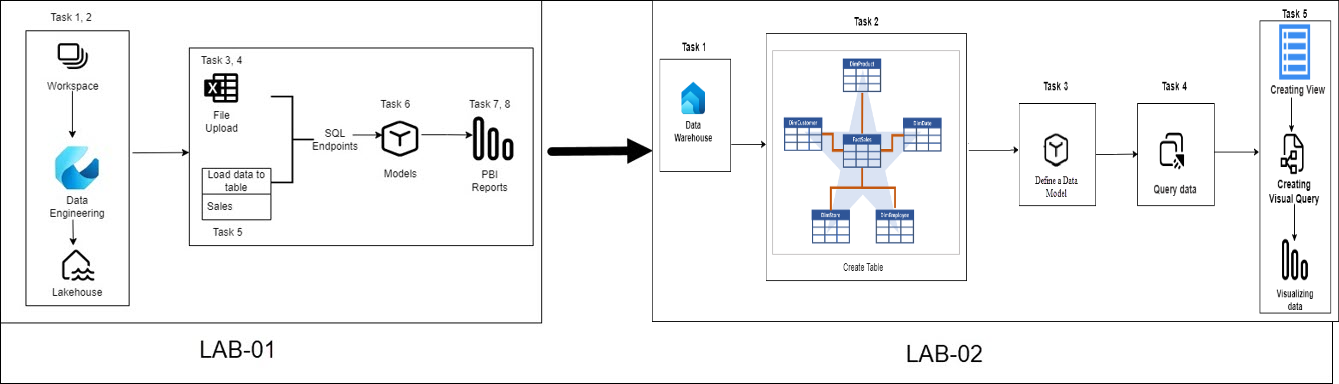
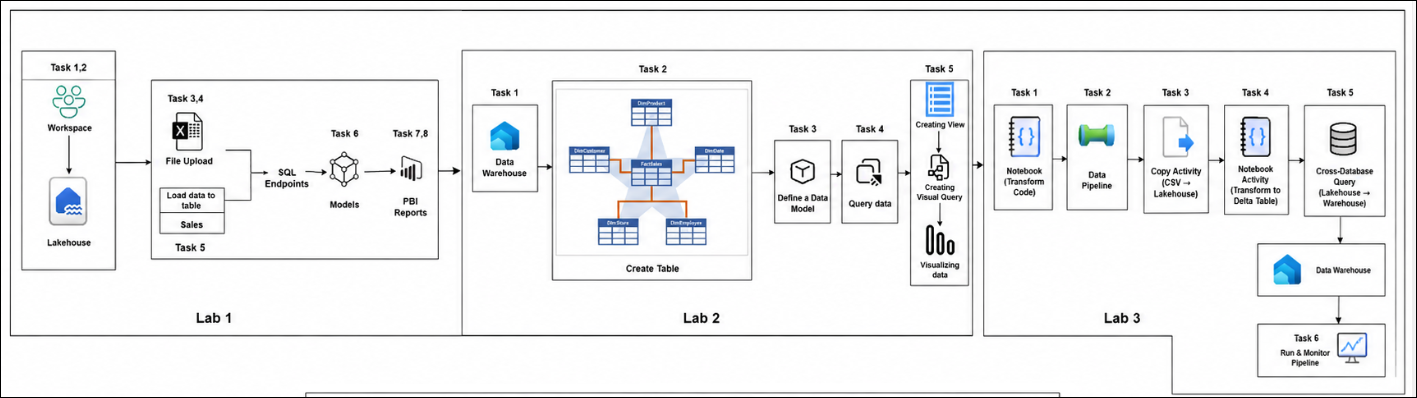
Updated the files

diff --git a/Instructions/Labs/Lab_03-Data-Engineering–Pipelines-and-Cross-Database-Queries.md b/Instructions/Labs/Lab_03-Data-Engineering–Pipelines-and-Cross-Database-Queries.md
@@ -10,14 +10,11 @@ As a Data Engineer, you will build a production-style data pipeline that mirrors
 
 ## 📋 Overview
 
-Microsoft Fabric Data Pipelines provide a visual orchestration engine to move and transform data across Fabric items. Combined with cross-database (cross-object) queries, you can read Lakehouse Delta tables directly from the Warehouse SQL endpoint — eliminating the need for redundant data copies.
+Microsoft Fabric Data Pipelines provide a visual orchestration engine that enables organizations to move, transform, and manage data efficiently across various Fabric items. When combined with cross-database (cross-object) queries, data can be accessed directly from Lakehouse Delta tables through the Warehouse SQL endpoint, eliminating the need for redundant data copies and simplifying data integration. In this lab, you will learn how to create a Data Pipeline to ingest external data into a Lakehouse, use a Notebook activity to transform raw data into a curated Delta table, leverage cross-database queries to load data from the Lakehouse into a Data Warehouse, and orchestrate the entire workflow within a single pipeline using proper activity sequencing and dependencies.
 
-In this lab, you will:
+## 🏗️ Architecture Diagram
 
-- Create a Data Pipeline to copy external data into the Lakehouse
-- Use a Notebook activity to transform raw data into a curated Delta table
-- Use cross-database queries to load data from the Lakehouse into the Data Warehouse
-- Orchestrate all steps in a single pipeline with proper sequencing
+   ![](<./Images/archlab03.png>)
 
 ## 🎯 Lab objectives
 
@@ -34,11 +31,11 @@ In this lab, you will complete the following tasks:
 
 In this task, you will create a Spark notebook that transforms the raw CSV data (ingested into the Lakehouse Files area) into a cleansed Delta table. This notebook will later be called from the pipeline.
 
-1. In the Power BI portal, make sure you are in workspace **Workspace-<inject key="DeploymentID" enableCopy="false"/>**, then click **Power BI** **(1)** on the left navigation bar, and click **+ New item** **(2)**.
+1. In the Microsoft Fabric portal, make sure you are in workspace **Workspace-<inject key="DeploymentID" enableCopy="false"/>**, then click **Power BI** **(1)** on the left navigation bar, and click **+ New item** **(2)**.
 
    ![](<./Images/L2T1S1.png>)
 
-1. On the **New item** page, search for **Notebook** **(1)** in the search bar and select **Notebook** **(2)**.
+1. On the **New item** page, search for **notebook** **(1)** in the search bar and select **Notebook** **(2)**.
 
    ![](<./Images/Img1.png>)
 
@@ -48,11 +45,11 @@ In this task, you will create a Spark notebook that transforms the raw CSV data 
 
     ![](<./Images/img2.png>)
 
-1. If the notebook does not have a default Lakehouse attached, click **Add data items (1)** in the **Data Items** section of the left **Explorer** pane, and click on **From OneLake catalog**
+1. If the notebook does not have a default Lakehouse attached, click **Add data items (1)** in the **Data Items** section of the left **Explorer** pane, and click on **From OneLake catalog (2)**
     
     ![](<./Images/img3.png>)
 
-1. On the other window choose **Lakehouse_<inject key="DeploymentID" enableCopy="false"/>** **(1)**, and click **Add**.
+1. On the other window choose **Lakehouse_<inject key="DeploymentID" enableCopy="false"/>** **(1)**, and click **Add(2)**.
     
     ![](<./Images/img4.png>)
 
@@ -60,19 +57,30 @@ In this task, you will create a Spark notebook that transforms the raw CSV data 
    
     ![](<./Images/img5.png>)
 
-    ![](<./Images/img6.png>)
+    ![](<./Images/img111.png>)
 
-1. Click the ellipses **(...) (1)** next to the **raw** folder, hover over **Upload (2)**, then select **Upload files (3)**. Download the file from [this link](https://raw.githubusercontent.com/MicrosoftLearning/dp-data/main/products.csv), then upload the downloaded **products.csv** file and click **Upload**. Once the status shows **Completed**, close the upload dialog.
+1. Click the ellipses **(...) (1)** next to the **raw** folder, hover over **Upload (2)**, then select **Upload files (3)**. Download the file from [this link](https://raw.githubusercontent.com/MicrosoftLearning/dp-data/main/products.csv).
 
     ![](<./Images/img7.png>)
 
-    ![](<./Images/img111.png>)
-
-
    >**Note:** To download the file, open a new tab in the browser and paste it into the URL.
 
-   >Right-click anywhere on the page containing the data and select Save as to save the page as a CSV file.
-   - Or if you are using the lab virtual machine (lab VM) provided to you, you can get the file from the C:\LabFiles\dp-data-main directory.
+   > Right-click anywhere on the page containing the data and select Save as to save the page as a CSV file.
+
+1. On the Upload files dialog, click the folder icon on the right to browse, go to path **C:\LabFiles\dp-data-main** and select the **prodcuts.csv (1)** file from your local or lab machine and click on **Open (2)**
+
+      ![](<./Images/img999.png>)
+
+1. On the Upload files dialog, after selecting the **prodcuts.csv** file, click **Upload (1)** to upload the file into the raw folder.
+
+    ![](<./Images/images11.png>)
+
+1. Once the upload is complete and the status shows **Completed**, click the **Close** icon at the top right to exit the **Upload files** dialog.
+
+      ![](<./Images/img1111.png>)
+
+   - if you are using the lab virtual machine (lab VM) provided to you, you can get the file from the **C:\LabFiles\dp-data-main**  directory.
+
 1. In the first cell, paste the following PySpark code and click the **&#9655; Run (1)** button to execute it:
 
    ```python
@@ -88,7 +96,7 @@ In this task, you will create a Spark notebook that transforms the raw CSV data 
    ```
     ![](<./Images/img8.png>)
 
-   > **Note**: You should see **295 rows and 4 columns: `ProductID`, `ProductName`, `Category`, `ListPrice` (2)**.
+   > **Note**: The code loads the products.csv file into a Spark DataFrame, displays the total number of rows in the dataset, and shows the first 5 records for validation. You should see **295 rows** and the columns **ProductID, ProductName, Category, and ListPrice.(2)**.
 
 1. Click **+ Code** below the first cell to add a new code cell. Paste the following transformation code and **&#9655; Run** button:
 
@@ -118,6 +126,8 @@ In this task, you will create a Spark notebook that transforms the raw CSV data 
    df_clean.show(5)
    ```
 
+   >**Note:** This code cleans the raw dataset by removing null values, standardizing column formats, adding a load timestamp, and saving the transformed data as a **Delta table** named **stg_products** in the Lakehouse.
+
 1. In the **Explorer** pane, Click it on the **(...) (1)** of the onelake and click on  the **Refresh all sources (2)**. Expand **Tables** under the **dbo** verify that the **stg_products** table now appears.
 
     ![](<./Images/img12.png>)
@@ -133,7 +143,7 @@ In this task, you will create a Spark notebook that transforms the raw CSV data 
 
 ## Task 2: Create a Data Pipeline
 
-In this task, you will create a new Data Pipeline that will orchestrate the entire data flow — from ingestion to transformation to loading.
+In this task, you will create a new Data Pipeline that will orchestrate the entire data flow - from ingestion to transformation to loading.
 
 1. In the hub menu bar on the left, click on your workspace **Workspace-<inject key="DeploymentID" enableCopy="false"/> (1)**.
 
@@ -161,17 +171,17 @@ In this task, you will add a **Copy Data** activity to the pipeline. This activi
 
    ![](<./Images/img16.png>)
 
-1. Select the **Copy data (1)** activity on the canvas and click the **General** tab at the bottom. Set the **Name** to **Copy Products CSV** **(2)**.
+1. Select the **Copy data (1)** activity on the canvas and click the **General** tab at the bottom. Set the **Name** to **Products CSV** **(2)**.
 
    ![](<./Images/img17.png>)
 
-1. Click the **Source** **(1)** tab. Under **Connection**, click **Browse all** **(2)** to create a new connection.
+1. Click the **Source** **(1)** tab. Under **Fabric item connections**, click **Browse all** **(2)** to create a new connection.
 
    ![](<./Images/img18.png>)
 
 1. In the **Choose a data source to get started** dialog:
 
-   - Search **HTTP** **(1)** as the data source type and select **HTTP (2)**
+   - Search **http** **(1)** as the data source type and select **HTTP (2)**
     
         ![](<./Images/img19.png>)
 
@@ -205,7 +215,7 @@ In this task, you will add a **Copy Data** activity to the pipeline. This activi
 
         ![](<./Images/img24.png>)
 
-        > **Note**: This will place the file at `Files/raw/products.csv` in the Lakehouse, which is the path the notebook expects. If you already uploaded the file manually in Task 1, the Copy activity will overwrite it on each pipeline run — this is expected and ensures the pipeline is self-contained.
+        > **Note**: The file will be stored at Files/raw/products.csv in the Lakehouse, which is the location expected by the notebook. If you manually uploaded the file in Task 1, the Copy activity will replace the existing file each time the pipeline runs. This is expected behavior and ensures that the pipeline always uses the latest copy of the source file without requiring manual uploads.
 
 ## Task 4: Add a Notebook Activity to transform data
 
@@ -233,7 +243,7 @@ In this task, you will add a **Notebook** activity after the Copy activity. This
 
 ## Task 5: Use cross-database query to load data into the Warehouse
 
-In this task, you will add a **Script** activity that uses a cross-database query to read the Delta table from the Lakehouse and insert it into a table in the Data Warehouse — all without moving files.
+In this task, you will add a **Script** activity that uses a cross-database query to read the Delta table from the Lakehouse and insert it into a table in the Data Warehouse - all without moving files.
 
 1. First, you need to create the target table in the Warehouse. Open a **new browser tab** and navigate to your workspace **Workspace-<inject key="DeploymentID" enableCopy="false"/>**.
 
@@ -270,11 +280,10 @@ In this task, you will add a **Script** activity that uses a cross-database quer
    ```sql
    SELECT TOP 10 *
    FROM Lakehouse_.dbo.stg_products;
-   GO
    ```
    >**Note:** Please replace the Lakehouse_ with the actual value of your Lakehouse.
 
-   >Example: Lakehouse_123456.dbo.stg_products
+   > **Use:** Lakehouse_<inject key="DeploymentID" enableCopy="false"/>.dbo.stg_products
 
    ![](<./Images/img32.png>)
 
@@ -312,7 +321,7 @@ In this task, you will add a **Script** activity that uses a cross-database quer
    
     >**Note:** Please replace the Lakehouse_ with the actual value of your Lakehouse. 
     
-    >Example: **Lakehouse_123456.dbo.stg_products**
+    >Example: **Lakehouse_<inject key="DeploymentID" enableCopy="false"/>.dbo.stg_products**
 
    ![](<./Images/img35.png>)
 
@@ -322,9 +331,7 @@ In this task, you will add a **Script** activity that uses a cross-database quer
 
 1. Your completed pipeline should now look like this, with three activities connected in sequence:
 
-   ```
-   Products CSV ──▶ Transform to Delta ──▶ Load to Warehouse
-   ```
+   > Products CSV ──▶ Transform to Delta ──▶ Load to Warehouse
 
    ![](<./Images/img37.png>)
 
@@ -379,6 +386,8 @@ In this task, you will validate, run, and monitor the pipeline to ensure all thr
 
    - Go back to the pipeline **pl_ingest_and_load**.
 
+      ![](<./Images/imgpipe.png>)
+
    - Click **Schedule** on the toolbar.
 
         ![](<./Images/img44.png>)
@@ -411,5 +420,8 @@ In this exercise, you have accomplished the following:
 - Leveraged cross-database queries (three-part naming) to load data from the Lakehouse into the Data Warehouse without data duplication
 - Executed and monitored the end-to-end pipeline run
 - Learned how to schedule the pipeline for recurring automated runs
+
+## Conclusion 
+ In this lab, you explored the core data analytics and engineering capabilities of Microsoft Fabric. You learned how to create and work with Lakehouses and Data Warehouses, ingest and organize data from multiple sources, query and analyze data using SQL, and build interactive reports for business insights. You also gained experience in automating data movement and transformation processes using Data Pipelines and Notebooks, enabling end-to-end data workflows. Through these exercises, you developed practical skills in managing, transforming, analyzing, and visualizing data within Microsoft Fabric's unified analytics platform.
 
 ### You have successfully completed the lab. Click on Next >>.

diff --git a/Instructions/Labs/overviewpage.md b/Instructions/Labs/overviewpage.md
@@ -4,28 +4,35 @@
 
 ## 📘 Lab Scenario
 
-Contoso Retail wants to modernize its analytics platform and improve the way business data is stored, analyzed, and reported. The organization has chosen Microsoft Fabric to unify data ingestion, transformation, warehousing, and reporting in a single platform.
+Contoso Retail wants to modernize its analytics platform and improve the way business data is stored, transformed, analyzed, and reported. The organization has chosen Microsoft Fabric to unify data ingestion, storage, warehousing, orchestration, and reporting within a single analytics platform.
 
-As a Data Analyst, you will work with Microsoft Fabric to create a Lakehouse and Data Warehouse, ingest and transform data, perform analysis using SQL and Power Query, and build interactive reports with Power BI to generate business insights.
+As a Data Analyst, you will work with Microsoft Fabric to create and manage a Lakehouse and Data Warehouse, ingest and transform data from multiple sources, analyze data using SQL and visual tools, and build interactive Power BI reports to generate business insights. You will also automate data movement and transformation processes using Data Pipelines and Notebooks, creating an end-to-end analytics solution that supports efficient reporting and data-driven decision-making.
 
 ## 📖 Overview
-This lab provides hands-on exercises in using Microsoft Fabric Lakehouse and Data Warehouse. Participants will set up a Microsoft Fabric workspace, configure a Lakehouse, ingest data, convert files into tables, and perform data analysis using SQL queries and Power Query. You will also create a Data Warehouse, define a data model, query tables, and create views. These exercises will enhance your skills in data management, analysis, and reporting using Power BI for visualization.
+This lab provides hands-on experience with the core data analytics and engineering capabilities of Microsoft Fabric. Participants will create and configure a Microsoft Fabric workspace, work with a Lakehouse to ingest and manage data, and use SQL and visual tools to analyze datasets. You will also create and manage a Data Warehouse, define data models, query data, and create views for analytical workloads. Additionally, you will build and orchestrate Data Pipelines and Notebooks to automate data ingestion, transformation, and loading processes. Throughout the lab, you will create reports and visualizations using Power BI, gaining practical experience in building end-to-end analytics solutions within Microsoft Fabric.
 
 ## 🎯 Objective
 
 By the end of this lab, you will learn:
 
-- **Creating and Ingesting Data with a Microsoft Fabric Lakehouse**: This hands-on exercise guides you through setting up a Microsoft Fabric workspace and configuring a Lakehouse for scalable storage. You will ingest data from various sources, convert files into structured tables, and apply SQL queries for data manipulation and analysis. Participants will also use Power Query for advanced data transformations and create insightful reports with Power BI to effectively visualize and share their findings.
+- **Creating and Ingesting Data with a Microsoft Fabric Lakehouse:** This hands-on exercise guides you through setting up a Microsoft Fabric workspace and configuring a Lakehouse for scalable storage. You will ingest data from various sources, convert files into structured tables, perform data analysis using SQL and visual query tools, and create reports to visualize business insights.
 
-- **Analyze data in a Data Warehouse**: This hands-on exercise involves creating a workspace and setting up a Data Warehouse. You will create tables and insert data, then define a data model for structured analysis. You will learn to query the Data Warehouse tables and create views for efficient data retrieval and reporting. Participants will enhance their skills in managing and analyzing data within a Data Warehouse environment.
+- **Analyzing Data in a Data Warehouse:** This hands-on exercise involves creating and configuring a Data Warehouse, creating tables and data models, querying data using SQL, and creating views to support reporting and analytical workloads. You will gain experience in managing and analyzing structured data within Microsoft Fabric.
+
+- **Automating Data Integration with Data Pipelines:** This hands-on exercise introduces Microsoft Fabric Data Pipelines and Notebooks for automating data movement and transformation. You will ingest data into a Lakehouse, transform raw data into curated Delta tables, load data into a Data Warehouse using cross-database queries, and orchestrate an end-to-end ETL workflow through a single pipeline.
 
 ## ⚙️ Prerequisites 
 
 Participants should have:
 
 - **Basic Understanding of Data Warehousing and Data Lakes:** Familiarity with the concepts of structured and unstructured data storage.
+
 - **SQL Knowledge:** Ability to write and understand basic SQL queries.
 - **Data Analysis:** Basic experience with data analysis and reporting.
+- **Microsoft Fabric Fundamentals:** Familiarity with Microsoft Fabric workspaces, navigation, and core analytics concepts.
+- **Basic ETL Concepts:** Understanding of data ingestion, transformation, and loading processes.
+- **Notebook and Data Pipeline Awareness:** Basic knowledge of notebooks and workflow orchestration concepts is beneficial but not required.
+- **Power BI Fundamentals:** Familiarity with creating reports and visualizations using Power BI.
 
 ## 🏗️ Architecture
 
@@ -33,7 +40,7 @@ This lab introduces the Microsoft Fabric Lakehouse, a unified data platform that
 
 ## 🖼️ Architecture diagram
 
-![](./Images/archoverview.jpg)
+![](./Images/archoverview.png)
 
 ## 🔍 Explanation of Components
 
@@ -54,6 +61,23 @@ This lab introduces the Microsoft Fabric Lakehouse, a unified data platform that
 - **Data Transformation:** The process of converting raw data into a structured format that can be used for analysis. This includes operations such as grouping, filtering, and summarizing data to prepare it for querying and reporting.
 
 - **Report Building:** The creation of interactive reports using Power BI, based on the data stored in the Lakehouse. This involves designing report layouts, selecting visualizations, and configuring report elements to effectively display data insights.
+
+- **Microsoft Fabric Data Pipeline:** A visual orchestration service within Microsoft Fabric that enables users to automate data movement and processing workflows. Data Pipelines allow multiple activities to be connected and executed in a defined sequence, simplifying end-to-end data integration and ETL processes.
+
+- **Notebook Activity:** A pipeline activity that executes a Microsoft Fabric Notebook. It is commonly used to perform data transformations, cleansing, and enrichment operations using Apache Spark before loading data into downstream analytical systems.
+
+- **Copy Activity:** A pipeline activity used to move data between different sources and destinations. In this lab, the Copy Activity ingests external data files into the Lakehouse, ensuring that data is available for further processing and analysis.
+
+- **Delta Tables:** Structured tables stored in the Delta Lake format within the Lakehouse. Delta tables provide reliable and efficient storage with support for ACID transactions, schema enforcement, and optimized query performance.
+
+- **Cross-Database Queries:** A feature in Microsoft Fabric that enables users to query data across different Fabric items. In this lab, cross-database queries are used to access Lakehouse Delta tables through the Warehouse SQL endpoint, allowing data to be loaded into the Data Warehouse without creating redundant copies.
+
+- **Data Warehouse:** A relational analytics store within Microsoft Fabric designed for structured data analysis and reporting. The Data Warehouse provides full SQL capabilities and serves as the destination for curated data prepared through the pipeline workflow.
+
+- **Pipeline Orchestration:** The process of coordinating multiple activities within a Data Pipeline to ensure that data ingestion, transformation, and loading operations execute in the correct order. This enables automated and repeatable end-to-end data workflows.
+
+- **Pipeline Monitoring:** A feature that allows users to track pipeline execution, review activity status, troubleshoot failures, and validate successful completion of data integration processes.
+
 
 # 🚀 Getting Started with the lab
 
@@ -92,6 +116,11 @@ Feel free to start, stop, or restart your virtual machine as needed from the **R
 To adjust the zoom level for the environment page, click the **A↕** icon located next to the timer in the lab environment.
 
 ![](./Images/fb_g_1_2.png)
+
+## Copy Paste Functionality
+To copy the SQL script or any code snippet, click the **Copy button (1)** located at the top-right corner of the code block (as highlighted in the image). The copied content can then be pasted directly into your SQL editor or workspace.
+
+![](./Images/Copy_section.png)
 
 Now you're all set to explore the powerful world of technology. Feel free to reach out if you have any questions along the way. 
 

diff --git a/Instructions/Labs/06-data-warehouse-msinnovation.md b/Instructions/Labs/06-data-warehouse-msinnovation.md
@@ -1,6 +1,6 @@
 # Lab 02: Analyze data in a Data Warehouse
 
-### Estimated Duration: 120 Minutes
+### Estimated Duration: 90 Minutes
 
 ## 📘 Lab Scenario
 
@@ -46,6 +46,8 @@ In this task, you will provision a new data warehouse within Microsoft Fabric. A
 1. On the **New warehouse** pane, enter **myDataWarehouse** **(1)** in the Name field, then click **Create** **(2)** to provision the warehouse.
 
    ![](<./Images/E2T1S3.png>)
+
+   >**Note:** A Data Warehouse is used to store and organize business data in one place so that it can be easily analyzed and used for creating reports and dashboards.
 
 ## Task 2: Create tables and insert data
 
@@ -102,11 +104,15 @@ A warehouse is a relational database in which you can define tables and other ob
 
    ![](<./Images/L2T2S7.png>)
 
-1. Open each of the following links in a **browser tab**, copy the Transact-SQL code from each file, and paste the contents into the **same query editor** in the **same order** listed below. After all the code has been added to the query editor, click **Run** to execute the script.
+1. Open each script link in a separate browser tab. Copy the complete Transact-SQL code from the **Dimensions Script**, **FactSalesOrder Script - Part 1**, and **FactSalesOrder Script - Part 2**. Paste all three scripts into the same SQL query editor in the exact order listed, then click Run to execute the complete script.
 
    - [Dimensions Script](https://raw.githubusercontent.com/CloudLabs-MOC/mslearn-fabric/refs/heads/main/Instructions/Labs/Dimensions.txt)
    - [FactSalesOrder Script - Part 1](https://raw.githubusercontent.com/CloudLabs-MOC/mslearn-fabric/refs/heads/main/Instructions/Labs/FactSalesOrder-1.txt)
    - [FactSalesOrder Script - Part 2](https://raw.githubusercontent.com/CloudLabs-MOC/mslearn-fabric/refs/heads/main/Instructions/Labs/FactSalesOrder-2.txt)
+
+   > **For Windows users**: To copy the entire file content, press **Ctrl + A** to select all the text, and then press **Ctrl + C** to copy it and **Ctrl + V** to paste it.
+
+   > **For Mac users:** To copy the entire file content, press **⌘ Command + A** to select all the text, and then press **⌘ Command + C** to copy it and **⌘ Command + V** to paste it.
 
    > **Note:** Ensure that the contents of all three files are pasted into the **same query editor** and in the **same order** before running the script.
 
@@ -224,6 +230,8 @@ Most queries in a relational data warehouse involve aggregating and grouping dat
 
    ![](<./Images/L2T4S3.png>)
 
+   > This SQL query calculates the total sales revenue for each month and year by joining sales data with date information, then displays the results in chronological order.
+
    > **Note:** The attributes in the time dimension enable you to aggregate the measures in the fact table at multiple hierarchical levels - in this case, year and month. This is a common pattern in data warehouses.
 
 1. Modify the query as follows to add a second dimension to the aggregation.
@@ -240,6 +248,7 @@ Most queries in a relational data warehouse involve aggregating and grouping dat
    GROUP BY d.[Year], d.[Month], d.MonthName, c.CountryRegion
    ORDER BY CalendarYear, MonthOfYear, SalesRegion;
    ```
+   >  This SQL query calculates the total sales revenue for each month, year, and sales region (country) by joining the sales, date, and customer tables, then displays the results in chronological order grouped by region.
 
 1. Run the modified query and review the results, which now include sales revenue aggregated by year, month, and sales region.
 

diff --git a/Instructions/Labs/01-lakehouse.md b/Instructions/Labs/01-lakehouse.md
@@ -1,6 +1,6 @@
 # Lab 01: Create and Ingest Data with a Microsoft Fabric Lakehouse
 
-### Estimated Duration: 120 Minutes
+### Estimated Duration: 90 Minutes
 
 ## 📘 Lab Scenario
 
@@ -76,6 +76,8 @@ Before working with data in Fabric, create a workspace with the Fabric trial ena
 1. From the PowerBI home page, select **Account Manager (1)** from the top-right corner to start the **Start trial (2)** of Microsoft Fabric.
 
    ![](./Images/E1T1S7.png)
+
+   >**Note:** The Fabric trial is enabled to ensure that your account has access to Microsoft Fabric features and experiences. However, the hands-on lab resources and workloads in this guide are configured to use the F2 Fabric capacity provided for the lab environment. The trial activation is only to enable Fabric access for your user account and does not replace the dedicated F2 capacity used throughout the lab.
 
 1. On the **Activate your 60-day free Fabric trial capacity** window, click **Activate** to continue with the default region.
 
@@ -329,6 +331,8 @@ In this task, we will create a new semantic model and add a table to the dataset
 
       ![](./Images/L1T8S5.png)
 
+      > **Note**: This table report presents aggregated sales data for each item, allowing users to monitor product performance, identify high-demand products, and validate that the sales data has been loaded correctly into the semantic model.
+
 1. In the **Visualizations** pane, follow these steps to convert the table into a clustered bar chart:
 
    - Click the **Build visual (1)** icon to ensure you're in visual editing mode.
@@ -336,6 +340,8 @@ In this task, we will create a new semantic model and add a table to the dataset
    - The report canvas updates to display the item-wise total quantity in a bar chart **(3)**.
 
       ![](./Images/L1T8S6.png)
+
+      > **Note:** This bar chart visualizes the total quantity sold for each item, making it easier to compare product sales performance and quickly identify the highest-selling products based on sales volume.
 
 1. To save the report, click **File** **(1)** in the top menu, then select **Save** **(2)**.
 
@@ -345,12 +351,12 @@ In this task, we will create a new semantic model and add a table to the dataset
 
    ![](./Images/L1T8S8.png)
 
-1. Then, in the hub menu bar on the left, select your workspace to verify that it contains the following items:
+1. Then, in the hub menu bar on the left, select your **workspace (1)** to verify that it contains the following items:
 
    - Your lakehouse.
    - The SQL analytics endpoint for your lakehouse.
    - A default dataset for the tables in your lakehouse.
-   - The **Item Sales Report** report.
+   - The **Item Sales Report** report. **(2)**
 
       ![](./Images/L1T8S9.png)
 